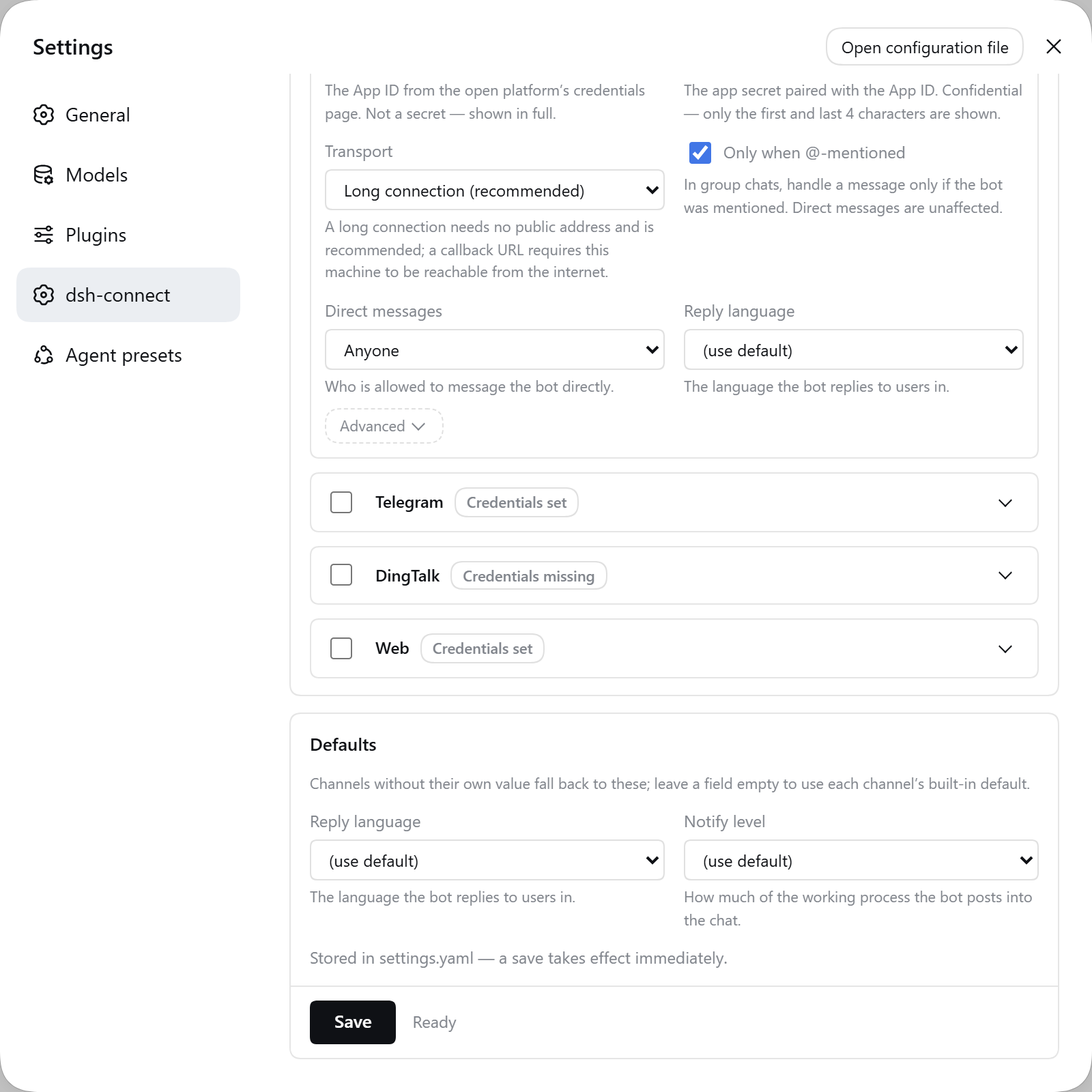
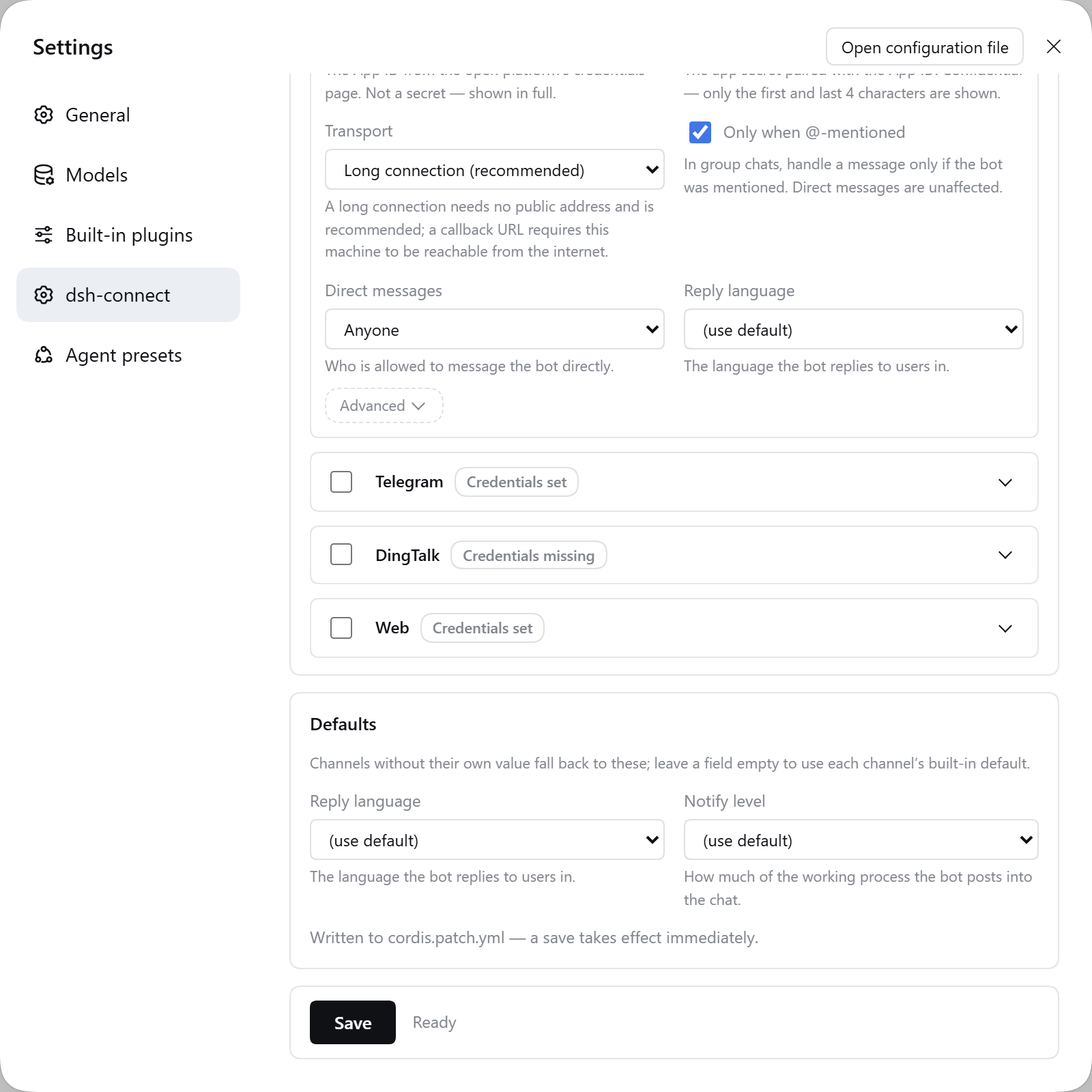
docs(connect): 0.9.3 — changelog, refreshed 0.2.0-rc.2 screenshots, version bump
All six settings-pane screenshots were re-captured against `0.2.0-rc.2`.
The old set was taken on `0.1.5-rc.2` and the host's own chrome had moved
on — the nav entry beside `dsh-connect` now reads 「内置插件」/「Built-in
plugins」 rather than 「插件」/「Plugins」, and the panel header gained an
「打开配置文件」/"Open configuration file" button. A screenshot is
documentation, and one showing a shell that no longer exists understates
the upgrade for anyone on an older build. Captured from the same
clean-room profile as before (plugin linked to this working tree, every
credential a fake placeholder), so what is in frame is this release.

The re-capture is also what found the stale status line fixed in the
previous commit: the shots are the only place both languages' pane text
is read as a user sees it.

Docs: CHANGELOG 0.9.3 section; both package READMEs gain the resume
troubleshooting row's chat notice and the note that Save pins `channels`
to the list as it stood at that moment (the host's `replace()` writes a
complete declared section and nothing on this seam can unpin it);
`docs/all-in-one-and-web-settings.md` and `docs/SHARED_WORKSPACE_SETUP.*`
brought level; two stale currency claims corrected
(`all-in-one` said "408 项" and 0.9.2, `ENHANCEMENTS_SUMMARY.*` said
"the current release is 0.9.2").

`README.i18n.yaml` re-recorded: both sides changed together, hashes
verify against `git hash-object README.md README.zh.md`.

diff --git a/CHANGELOG.md b/CHANGELOG.md
@@ -2,6 +2,44 @@
 
 All notable changes to this project are documented following [Keep a Changelog](https://keepachangelog.com/en/1.1.0/).
 
+## [0.9.3] - 2026-10-02
+
+An audit of what this bridge does when a write fails, and the repair of every place it reported success anyway. The unifying fault is one shape in six places: a durable store refused or dropped a write, the `catch` that should have reported it was either empty or a bare `undefined`, and the user was told everything was fine. A reminder set for tomorrow disappears overnight, a chat stops being resumable after a restart, a rotated secret never reaches the running bot, and the one message the user sees in each case is 「已保存」 or 「已设置」. Each of those is now a reported outcome, and where the operation genuinely did succeed in part — the reminder is live in this process but not on disk — **the report says both**, because a single line covering half the truth is how the other half goes unnoticed. The same principle read from the other end produces the two chat-facing additions: a resume that silently fell back to a fresh session now says so in the conversation, and a task card the adapter could not deliver is logged instead of discarded.
+
+### Added
+
+- **The settings pane can report a problem instead of only a verdict.** `SettingsSnapshot` carries three optional fields — `warnings`, `credentialErrors` and `channelErrors` — and each is spread into the response only when non-empty, so a healthy snapshot is byte-identical to the previous release's. Credential-store read failures arrive as a channel-keyed message rather than as an all-false presence map, and adapters that failed to start arrive with the `start()` error that stopped them. The pane renders all three through one exported helper, `snapshotIssues()` in `client/panel-state.mjs`, as a single list in the save bar — the one part of the pane that is always on screen, and the reason it is not beside the channel it concerns is that a channel card can be folded or scrolled past, which is exactly when 「已保存」 next to nothing else misleads. A channel whose credential state could not be *read* also gets a distinct amber badge: "unknown" is a third state and not a shade of false, and collapsing it into 「未配置凭据」 sends the user to re-enter a secret that was never the problem. Warning codes render through `w.<code>`, so a code shipped without its locale entry prints the code — searchable, and visibly untranslated — rather than `undefined`.
+- **`SETTINGS_WARNING_CODES`,** the list of codes the pane knows, as a real array (`["credentialsStoredNotApplied"]`) rather than a bare union type. The locale test derives its expectations from that array, so the list and the translations cannot drift apart.
+- **A chat notice when the stored session could not be resumed.** `connect: resume of <id> failed, creating fresh session` was logged and nothing else; the log is the one place a chat user never looks. They send a follow-up into a conversation that looks intact and the reply arrives with no memory of it. The catch now records the reason (only when the binding held a non-empty `sessionId` — see the fix below) and, **after** the fresh session actually exists, sends 「⚠ 无法恢复上次的会话，已为你开启一个新会话继续（旧会话仍可在 Web 端查看）」 plus the reason, so a permanent cause (a deleted session store, a moved work directory) is distinguishable from a one-off. The old session is not lost: it is still in the session store and still viewable in the Web GUI, which is why the notice says "continuing in a new one" rather than "your conversation was lost".
+- **`BindingStore` reports a write failure on the transition, in both directions.** A binding file it cannot write means existing chats will not be resumed after a restart and each will start a new session — the same silent-fallback class as above, one restart later. The store now warns once when persistence breaks and once when it starts working again, rather than on every save. The same reporting is threaded through the two other stores that can silently refuse a write: `ReminderStore.add()` returns `{ reminder, persisted }`, and the Feishu onboarding credential save returns a `boolean`.
+
+### Changed
+
+- **The progress watchdog's tick is derived from the configured interval** instead of being fixed at `PROGRESS_WATCHDOG_CHECK_MS` (15 s): half the interval, floored at 250 ms so a pathologically small value cannot become a busy loop, capped so the 5-minute default keeps the same 15 s tick as before. A fixed 15 s tick meant `progressTimeoutMs: 30_000` was honoured anywhere in 30–45 s — up to 1.5× what the user asked for — and no test could observe the feature without sleeping the constant out.
+- **`onCredentialsSaved` is awaited, and `namespace.onChange` may be async.** The credential write ends with the same `reconcile()` a config save triggers (the `0.9.2` fix); awaiting it is what makes the pane's report of that reconcile truthful rather than merely optimistic.
+
+### Fixed
+
+- **An unreadable credential store no longer reports as 「未配置凭据」.** The read loop's `catch {}` was empty, so an `EACCES` or a malformed store produced the same all-false presence map as a genuinely empty one, and sent the user to paste a secret that was already there. The failure is logged and carried to the pane as a per-channel message.
+- **A channel that failed to start says so.** `channelErrors` is populated from the adapter's own `start()` error and cleared on a successful start and on stop, so the message in the pane is the one the adapter raised — the only part that names the credential or option actually at fault.
+- **A reminder that could not be persisted is reported as set *and* as not surviving a restart.** The reminder is live in this process and will fire; a failed write means it will not survive a restart. 「已设置」 alone is how a reminder set for tomorrow quietly disappears overnight, and refusing to set it at all would be the lie in the other direction, so the confirmation line carries a second line naming the consequence.
+- **An onboarding credential save that did not land no longer reports success.** `saveCredentials()` now returns a boolean and the flow has an `onboardingUnsaved` message for the false branch.
+- **A first message in a brand-new chat no longer claims a session was lost.** `maybeSendWelcome` writes the binding with `sessionId: ""` *before* the first `ensureAgent`, so `resume("")` fails on every chat's first message with nothing to resume — an empty id is not a lost conversation, and the new notice is suppressed for it while the log line keeps telling the operator what happened.
+- **A task-end card that could not be delivered is logged, not discarded.** `await …sendCard(…).catch(() => undefined)` made a dropped card and a card with nothing to say indistinguishable. It is neither: that card is the durable record of the turn — the result text and the token/duration summary — and the streaming card it replaces is meanwhile stuck on its last frame, so a silent failure left the user watching a frozen "running" indicator with no reason to think anything was wrong.
+- **The pane no longer says a save lands in `settings.yaml`.** `0.9.2` moved the live store to this plugin's entry in the active profile patch; the status line under the Save button — the one string a user reads to answer "where did my save go, and when does it apply?" — kept naming the document DSH 0.2 no longer reads plugin settings from, so the pane was confidently pointing at the wrong file. It now names `cordis.patch.yml`, and the fallback plane's hint no longer calls the absent namespace "the `settings.yaml` namespace", since the namespace is registered against the host's settings service rather than that file. Found by re-capturing the settings screenshots against `0.2.0-rc.2` — both strings were terse, plausible and wrong, which is why a test that only checked they were *present* (the one that existed) could not have caught either.
+
+### Testing
+
+- The two silent-failure layers are now covered end to end. `test/panel-state.test.mjs` (7 → 12) pins `snapshotIssues`: each report becomes its own kind with a stable key (asserted to carry no digits, i.e. nothing derived from a list index), a clean snapshot yields nothing at all, and the caller's accumulated warnings add to the snapshot's rather than replacing them — including that an explicitly empty list is respected rather than treated as absent, which is the difference between "nothing to report" and "I did not look". `test/client-bundle.test.mjs` (14 → 18) renders it: a channel whose store could not be read shows as unknown rather than missing, a call with nothing to report renders no list at all, and a warning raised by an earlier credential save survives a later one. `test/locale.test.mjs` (11 → 12) iterates `SETTINGS_WARNING_CODES` and asserts every code has a translation in both languages, so a code cannot ship untranslated. `test/feishu.test.mjs` (39 → 43) covers the onboarding write's outcomes: plain success when the file took the credentials, the not-saved message when no store takes them, success when the credential store saves it instead, and the not-saved message when the store throws too.
+- `test/runner.test.mjs` (20 → 33) gained the turn-level cases: the resume-fallback notice — sent once per breakage rather than once per message, and *not* sent for the empty-id first turn — the derived watchdog tick, the heartbeat, and the per-chat override writers on both the update and the create branch. The harness's fake `AgentRegistry` was returning `{ agent, session }` with no `dispose()`, which the real host hangs off every handle, so `AgentRunner.disposeAgent` threw on every session reset path (`/model`, `/reasoning`, `/clear`) and the failure named neither the path nor the cause; it now returns a handle and records its release, and the reset test asserts the release explicitly — an un-released handle is invisible until the host runs out of them.
+- `test/unit.test.mjs` (57 → 63) covers `MenuController.openMenu`'s routing for the first time. `menuItems` builds each submenu; `openMenu` is what actually routes a tap, and until now nothing called it. The taps are scripted rather than derived from the rendered options on purpose: a test that can only press buttons the previous render offered could never press a stale one, which is the case worth covering. Both new load-bearing tests are mutation-checked — removing the stale-tap redraw fails exactly that test, and replacing the back-pop's `stack.slice(0, -1)` with `[]` fails exactly that one — so they are demonstrated to fail on a real regression rather than merely to pass. The existing live-plane assertion gained the guard the string above needed: it now checks that both languages name `cordis.patch.yml` and that neither still names `settings.yaml`, since the fault was a string that was *present* and wrong rather than missing. 408 → 441 tests, all passing.
+
+### Documentation
+
+- **Both package READMEs' resume-failure troubleshooting row now names the chat notice**, since the log line it documented was the only report and a user reading the table had no way to know the chat would also say so. Both also gain the reason the searchability of that row matters.
+- **A note on the channel list being pinned once you press Save.** The host's `replace()` writes a complete declared section and resets a declared field an update omits to its inherited value, so pressing Save pins `channels` to the list as it stood at that moment — **there is no way to unpin it from the pane**, and a channel added by a future release will not be enabled for a user who has saved at least once. Documented rather than fixed: a diff-against-resolved payload would be destructive on this seam, since the resolved section is what the pane is reading, so the honest move is to say what Save does.
+- **The six settings-pane screenshots were re-captured against `0.2.0-rc.2`.** The existing set was taken on `0.1.5-rc.2`, and the host's own chrome had moved on: the nav entry beside `dsh-connect` now reads 「内置插件」/「Built-in plugins」 rather than 「插件」/「Plugins」, and the panel header gained an 「打开配置文件」/「Open configuration file」 button. A screenshot is documentation, and one showing a shell that no longer exists understates the changes for anyone upgrading. Captured from the same clean-room profile as before — the plugin linked to this working tree, every credential in it a fake placeholder (`cli_a1b2c3d4e5f60789` / `fake…1e00` in the shots) — so what is in frame is the code in this release.
+
 ## [0.9.2] - 2026-10-02
 
 The DSH 0.2 line. The published `0.9.0` — and the in-repo `0.9.1`, which was committed but never published — were built against `0.1.5-rc.2`, and DSH refuses to load them on `0.2.0-rc.2` — the compatibility gate read our pinned `^0.1.5-rc.2`, which is `>=0.1.5-rc.2 <0.2.0` and therefore excludes the new host by construction, and told the user to install a compatible version instead. The range is now in step. The same upgrade also moved where per-plugin settings live, which is what most of this release is about: DSH 0.2 no longer reads plugin settings out of `$DSH_HOME/settings.yaml`, and the host's own migration drops the old `dsh-connect:` section with a warning, so without the import below an upgrading user's pane choices would silently revert to defaults the first time they opened the pane.

diff --git a/docs/all-in-one-and-web-settings.md b/docs/all-in-one-and-web-settings.md
@@ -1,8 +1,8 @@
 # 配置简化 + Web 设置 + 多合一重构（对齐 dsh-im）
 
-> **当前状态更新（2026-10-02，0.9.2）**：设置存储随 DSH 0.2 再次换代。面板的权威存储不再是 `$DSH_HOME/settings.yaml` 的 `dsh-connect` 段（那是 0.9.0/0.9.1 的做法；DSH 0.2 已不再从这个文档读取插件设置），而是**当前 profile patch（`cordis.patch.yml`）中本插件的条目**，经 DSH 一方 `settings` 服务（`SettingsForms`）写入：热重载、原子写、文件锁、保留注释；取值顺序为 **schema 默认值 → 插件被组合进来时的配置 → profile patch 条目**。面板可编辑字段在 schema 里声明为 `volatile`，保存因此是就地 reconcile（运行中的适配器直接采用新值）而不是重挂载；写入会投影到已声明字段，未声明的键（凭据、`settingsStatePath`）既写不进去也不会被清掉，而被省略的已声明字段会被重置回继承值，所以每次写入都是完整的已声明段。0.2 之前留在 `settings.yaml` 里的段，会在升级后的第一次启动时被**合并**（不是替换）导入 patch 条目，一次性标记 `.dsh-connect-legacy-imported`（写在 profile 条目旁，锚在 `profileContext.patchPath`）记录结果。面板**写不进**密钥：保存会投影到已声明字段，而密钥键一个都不在其中，所以面板既不会把密钥写进 profile patch，也不会写进任何 JSON 状态文件——它们只进 DSH 凭据库。反过来，**手写**在条目或回退文件里的密钥也不会被面板的保存顺手删掉（不删用户自己的文档），但读取时一律剔除，绝不随快照下发到浏览器；面板只显示凭据库提供的掩码预览（appId 这类标识符本身不脱敏）。面板 UI 沿用 0.9.0 的**渠道 Tab 条 + 可折叠卡片**，低频字段收进二级「高级」折叠，保存/状态固定在底部。当前测试总数 **408 项全过**，DSH 依赖升到 `^0.2.0-rc.2`（peer `dsh-agent` / `dsh-llm` / `dsh-session`）。详见根 `CHANGELOG.md` 的 0.9.2 段。
+> **当前状态更新（2026-10-02，0.9.3）**：设置存储随 DSH 0.2 再次换代。面板的权威存储不再是 `$DSH_HOME/settings.yaml` 的 `dsh-connect` 段（那是 0.9.0/0.9.1 的做法；DSH 0.2 已不再从这个文档读取插件设置），而是**当前 profile patch（`cordis.patch.yml`）中本插件的条目**，经 DSH 一方 `settings` 服务（`SettingsForms`）写入：热重载、原子写、文件锁、保留注释；取值顺序为 **schema 默认值 → 插件被组合进来时的配置 → profile patch 条目**。面板可编辑字段在 schema 里声明为 `volatile`，保存因此是就地 reconcile（运行中的适配器直接采用新值）而不是重挂载；写入会投影到已声明字段，未声明的键（凭据、`settingsStatePath`）既写不进去也不会被清掉，而被省略的已声明字段会被重置回继承值，所以每次写入都是完整的已声明段。0.2 之前留在 `settings.yaml` 里的段，会在升级后的第一次启动时被**合并**（不是替换）导入 patch 条目，一次性标记 `.dsh-connect-legacy-imported`（写在 profile 条目旁，锚在 `profileContext.patchPath`）记录结果。面板**写不进**密钥：保存会投影到已声明字段，而密钥键一个都不在其中，所以面板既不会把密钥写进 profile patch，也不会写进任何 JSON 状态文件——它们只进 DSH 凭据库。反过来，**手写**在条目或回退文件里的密钥也不会被面板的保存顺手删掉（不删用户自己的文档），但读取时一律剔除，绝不随快照下发到浏览器；面板只显示凭据库提供的掩码预览（appId 这类标识符本身不脱敏）。面板 UI 沿用 0.9.0 的**渠道 Tab 条 + 可折叠卡片**，低频字段收进二级「高级」折叠，保存/状态固定在底部。**0.9.3 把「失败」从一个被吞掉的分支变成一份报告**：`SettingsSnapshot` 增加 `warnings` / `credentialErrors` / `channelErrors`（非空才下发），面板经 `snapshotIssues()` 把它们渲染成保存条上方的一份清单，凭据库读不了的渠道显示琥珀色「凭据状态未知」徽标而不是「未配置凭据」；绑定文件、提醒文件、开通流程的凭据写入这三处写失败不再被 `catch` 吞掉，聊天里也会在会话恢复失败时收到通知，而不是只在日志里写一行。同一批里还改掉了一处纯属说错的文案：保存条下方的状态行原本写「配置存放在 settings.yaml，保存后立即生效」，而 0.9.2 起权威存储已经是 profile patch，现在如实写作 `cordis.patch.yml`。当前测试总数 **441 项全过**，DSH 依赖升到 `^0.2.0-rc.2`（peer `dsh-agent` / `dsh-llm` / `dsh-session`）。详见根 `CHANGELOG.md` 的 0.9.2 与 0.9.3 段。
 
-### 设置页现状（0.9.0 截图）
+### 设置页现状（0.9.3 截图，DSH `0.2.0-rc.2`）
 
 | 概览（渠道 Tab 条 + 卡片） | 高级折叠 |
 |---|---|
@@ -11,6 +11,7 @@
 <img src="../packages/connect/docs/images/settings-defaults-zh.png" alt="默认值展示" width="420">
 
 > 英文文档/README 使用同目录下的 `-en` 变体；路径约定见 `docs/PUBLISHING.md` 第 2.4 节。
+> 截图取自干净环境（插件 `link:` 到当前工作树，profile 里所有凭据都是假占位符），拍摄于 `0.2.0-rc.2`：设置导航里的邻居条目此时已叫「内置插件」，面板头部也多了一个「打开配置文件」按钮，与 0.1.5 时期的旧图不同。
 
 ---
 
@@ -29,11 +30,11 @@
 - 一份配置（`channels` + `channelDefaults` + N 个渠道块）启用任意渠道组合；渠道失败隔离、渠道级配置透传。
 - Web 可视化设置：`/dsh-connect` RPC（`settings.get/save/status` + `credentials.save`）+ 设置持久化（0.9.2 起为 profile patch 中本插件的条目；0.9.0/0.9.1 为 `$DSH_HOME/settings.yaml` 的 `dsh-connect` 段；更早是 JSON 状态文件）+ DSH 凭据库读写，配置与凭据**读写闭环**（round-trip 已验证）。
 - 凭据从配置挪到凭据库：面板写密钥 → 激活时 `injectSecrets` 注入各渠道适配器（非侵入，渠道适配器零改动）。
-- 一键发布：`files` 含 client/examples、`prepack` 自动重建、入口解析 OK；当前 `packages/connect` 单包 **408 项测试全过**（详见 `CHANGELOG.md` 0.9.2）。
+- 一键发布：`files` 含 client/examples、`prepack` 自动重建、入口解析 OK；当前 `packages/connect` 单包 **441 项测试全过**（详见 `CHANGELOG.md` 0.9.3）。
 
 **当时还差什么（两项均已完成，保留存档）：**
 1. ~~`dsh web` 内构建并渲染前端 `settings-client` 组件~~——已完成：`client/client.js` 由 `scripts/build-client.mjs` 构建，`test/client-bundle.test.mjs` 直接加载构建产物在 Node 里渲染并断言。
-2. ~~推送 v0.7.2~~——已解决：v0.7.2 及其后的 0.8.0 / 0.8.1 均已发布，当前版本为 0.9.2（见根 `CHANGELOG.md`）。
+2. ~~推送 v0.7.2~~——已解决：v0.7.2 及其后的 0.8.0 / 0.8.1 均已发布，当前版本为 0.9.3（见根 `CHANGELOG.md`）。
 
 ## 1. 重构前的现状：配置与安装复杂度
 
@@ -126,7 +127,7 @@
 
 ## 进展（实现中）
 
-> **历史存档**：以下是 `packages/connect-all/`（聚合包，方案 A）时期的按时间顺序记录，**该包已随 0.8.0 的单包化被删除**。因此本节所有 `packages/connect-all/...` 路径、`dsh-connect-all` 包名与安装命令都已不存在；下文出现的测试计数（**37 / 40 / 44 / 50 / 52 / 56 / 57**）只统计当时那套 connect-all 测试，既不是当前套件、也不可与它相加——当前是 `packages/connect` 单包 **408 项全过**（DSH `0.2.0-rc.2`，见 `CHANGELOG.md` 0.9.2）。文中「前端待联调」一类表述同样只反映当时状态。
+> **历史存档**：以下是 `packages/connect-all/`（聚合包，方案 A）时期的按时间顺序记录，**该包已随 0.8.0 的单包化被删除**。因此本节所有 `packages/connect-all/...` 路径、`dsh-connect-all` 包名与安装命令都已不存在；下文出现的测试计数（**37 / 40 / 44 / 50 / 52 / 56 / 57**）只统计当时那套 connect-all 测试，既不是当前套件、也不可与它相加——当前是 `packages/connect` 单包 **441 项全过**（DSH `0.2.0-rc.2`，见 `CHANGELOG.md` 0.9.3）。文中「前端待联调」一类表述同样只反映当时状态。
 
 ### 已完成：`dsh-connect-all` 聚合包（方案 A 骨架，已 build + 单测通过）
 - 新增 `packages/connect-all/` 单插件：一个 `dsh plugin add dsh-connect dsh-connect-all` 装齐核心 + 4 渠道。

diff --git a/packages/connect/README.md b/packages/connect/README.md
@@ -41,7 +41,7 @@ version is the signal that the bridge needs another migration.
 
 DSH refuses to load a plugin whose range does not cover it, so a stale range is
 at least loud: installing `0.9.0` on `0.2.0-rc.2` is rejected with *"may cause
-crashes or data loss"* before anything runs. `0.9.2` is the version that covers
+crashes or data loss"* before anything runs. `0.9.3` is the version that covers
 `0.2.0-rc.2`; see [Upgrading from 0.9.0](#upgrading-from-090).
 
 The plugin runs on the DSH **Host plane** (process-level singleton services), not inside an agent preset.
@@ -290,6 +290,17 @@ resets a declared field that an update *omits* to its inherited value, so a save
 always writes the complete declared section. Undeclared keys you hand-wrote in
 that entry are preserved across a pane save, untouched.
 
+**Consequence worth knowing: pressing Save pins the channel list.** `channels` is
+a declared field, so the section a save writes names every channel that was in
+the form at that moment — and there is no way to unpin it from the pane, because
+an omitted field does not clear but *inherits*. If you have saved at least once,
+a channel added by a newer release will not be enabled for you until you tick it
+and save again (or delete the `channels` key from
+`~/.dsh/profiles/<profile>/cordis.patch.yml` by hand). The pane cannot tell the
+difference between "the user chose this list" and "the user has not looked since
+the list changed", and it will not guess on your behalf: a save that wrote only
+what you edited would reset every other field to its inherited value.
+
 **The pane never writes credentials.** A profile patch is a plain document users
 are invited to paste into bug reports, so a secret you type into the pane goes to
 the DSH credential store (`ctx.credentials`) instead — which is also where
@@ -329,6 +340,26 @@ come from `client/locale.mjs`, which ships `zh` and `en`. A test asserts both
 languages cover exactly the same key set — the host resolves a missing key by
 silently falling back to the other language, so an untranslated string shows up
 as mixed-language text rather than as an error.
+
+### When a save has something to report
+
+`已保存` / `Saved` means the write landed, and nothing more. When there is
+something else to say, the save bar grows a list above the button — it is the
+only part of the pane that is always on screen, and a channel card can be folded
+or scrolled past, which is exactly when a bare "Saved" next to nothing else
+misleads.
+
+| Line | What it means |
+|---|---|
+| *<channel>* · `Credential state unknown` | The credential store could not be **read** for that channel — usually a permission problem or a malformed store. This is not `not configured`: a secret may well be stored. Do not retype it until you have checked the store, which is why the badge on that channel's card turns amber rather than red. |
+| *<channel>* · `Channel failed to start:` plus the adapter's own message | The adapter's `start()` threw. The message is passed through verbatim, because it is the only part that names the credential or option actually at fault. |
+| `The credential was saved, but the running channels did not reload it — restart dsh to be sure.` | The save partially applied: the secret is in the credential store, but the reconcile that hands it to the running adapters failed, so the bot keeps using the old one until a restart. |
+
+Warnings accumulate across the several calls one Save makes (config first, then
+each channel's credentials); the error lines are re-derived from the world on
+every call. A warning is about the call that raised it, so it would otherwise be
+erased by the next channel's save — and the one that mattered is the one you
+would lose.
 
 ### Credential groups
 
@@ -415,10 +446,13 @@ Logs come from the DSH host logger (run `dsh web` in a terminal); plugin message
 
 | Symptom | Likely cause / fix |
 |---|---|
-| Installing `dsh-connect@0.9.0` on DSH `0.2.0-rc.2` is refused: *"`dsh-connect@0.9.0` 与 DSH `0.2.0-rc.2` 不兼容 … 运行它可能导致崩溃或数据丢失"* | Not a bug and not a warning to click past: DSH's compatibility gate rejects any plugin whose declared peer range does not cover the running host, and `0.9.0` predates the `0.2.0` line. Install **`0.9.2`** (or newer), whose peers require `^0.2.0-rc.2`. |
+| Installing `dsh-connect@0.9.0` on DSH `0.2.0-rc.2` is refused: *"`dsh-connect@0.9.0` 与 DSH `0.2.0-rc.2` 不兼容 … 运行它可能导致崩溃或数据丢失"* | Not a bug and not a warning to click past: DSH's compatibility gate rejects any plugin whose declared peer range does not cover the running host, and `0.9.0` predates the `0.2.0` line. Install **`0.9.3`** (or newer), whose peers require `^0.2.0-rc.2`. |
 | In the Desktop app you cannot find where to install a plugin — the entry seems to have gone after a restart | The install surface is the **Plugins panel in the sidebar** (first in the panel list), not Settings; Settings only lists plugins, read-only. See [Installing in the Desktop app](#installing-in-the-desktop-app). If the panel opens but says *this deployment runs without a manageable profile*, the host did not expose its plugin manager, so the page is inert — restart the app. And **Settings → dsh-connect** can only exist once the plugin is installed and loaded, so after a refused install there is legitimately nothing to find. |
 | `connect-feishu: adapter init failed` / `start failed` | Bad credentials, app not published, or network blocked. Check `appId`/`appSecret`, re-run onboarding, verify the bot is online in the Feishu console. |
-| `connect: resume of <id> failed, creating fresh session` | The persisted session could not be resumed (missing workdir, persistence issue). Check `workDir` and `~/.dsh/sessions`. |
+| `connect: resume of <id> failed, creating fresh session` | The persisted session could not be resumed (missing workdir, persistence issue). Check `workDir` and `~/.dsh/sessions`. **The chat is told too**, since `0.9.3`: you get 「无法恢复上次的会话，已为你开启一个新会话继续」 with the reason, because the log is the one place a chat user never looks and a reply that arrives with no memory of the conversation looks like the bot forgetting rather than a session that moved. The old session is not lost — it is still in the session store and still openable in the Web GUI. |
+| `connect: binding store writes to <file> are working again` / `… cannot persist bindings …` | The binding file could not be written, so **existing chats will not be resumed after a restart** and each will start a new session. Reported once when the write breaks and once when it recovers — on its own it is a disk or permission problem, but if you see it *and* the resume notice above, the two are the same cause. |
+| `connect: summary card could not be delivered …` / `connect: stats card could not be delivered …` | The turn finished but its result card did not reach the chat, so the streaming card stays on its last frame. Usually a bot-API or permission problem on the channel side; the answer itself is in the session and visible in the Web GUI. |
+| A reminder was accepted but never fired | Fixed in **0.9.3**: the store's write failure was swallowed, so 「已设置」 could be sent for a reminder that would not survive a restart. The confirmation now carries a second line saying so. Upgrade. |
 | The bot answers every message with a raw `agent-presets: preset "…" not found` line, and nothing reaches the agent | A stale `agent-presets.default` in `$DSH_HOME/settings.yaml` names an id no installed build ships. Fixed in **0.9.0**, which retries `standard` and logs the decision rather than failing the turn; on an older build, set the key to a shipped id (`standard`). |
 | Session-locked notices | Another client (Feishu or Web) holds the write lock. Use `/unlock` or wait for the lock timeout. |
 | Model switch in the Web GUI appears ignored | Fixed in **0.9.0**: the plugin no longer pins a static default model over the Web GUI's session selection. Upgrade, then restart `dsh web`. |

diff --git a/docs/ENHANCEMENTS_SUMMARY.md b/docs/ENHANCEMENTS_SUMMARY.md
@@ -4,7 +4,7 @@ English | [中文](ENHANCEMENTS_SUMMARY.zh.md)
 
 > **Historical note**: this documents the **v0.6.2** round of fixes. Since then the repo consolidated into a **single `dsh-connect` package** — the per-package references below (`dsh-connect-feishu`, `dsh-connect-telegram`, `dsh-connect-dingtalk`, `dsh-connect-web`) and the split `packages/connect-*/test/` directories no longer exist; those channels are now sub-keys of the one `dsh-connect` plugin (under `feishu:` / `telegram:` / `dingtalk:` / `web:`).
 >
-> Two claims below are **superseded** and must not be read as current behaviour: the `feishu-credentials.json` file (mode `0600`) is no longer where onboarding credentials live — the **DSH credential store** is the source of truth, and that JSON file survives only as a best-effort legacy mirror — and a private JSON settings file is no longer the Web pane's store. The pane's store has moved twice since: 0.9.0/0.9.1 wrote the `dsh-connect` section of `$DSH_HOME/settings.yaml`, and **0.9.2** writes **this plugin's entry in the active profile patch** (`cordis.patch.yml`) through DSH's first-party `settings` service, with secrets still only in the credential store — and it imports the old `settings.yaml` section once on upgrade. The current release is **0.9.2** — see the root `CHANGELOG.md`. Everything else below remains an accurate record of the 0.6.2 round.
+> Two claims below are **superseded** and must not be read as current behaviour: the `feishu-credentials.json` file (mode `0600`) is no longer where onboarding credentials live — the **DSH credential store** is the source of truth, and that JSON file survives only as a best-effort legacy mirror — and a private JSON settings file is no longer the Web pane's store. The pane's store has moved twice since: 0.9.0/0.9.1 wrote the `dsh-connect` section of `$DSH_HOME/settings.yaml`, and **0.9.2** writes **this plugin's entry in the active profile patch** (`cordis.patch.yml`) through DSH's first-party `settings` service, with secrets still only in the credential store — and it imports the old `settings.yaml` section once on upgrade. The current release is **0.9.3** — see the root `CHANGELOG.md`. Everything else below remains an accurate record of the 0.6.2 round.
 
 ## 📋 Overview
 

diff --git a/docs/ENHANCEMENTS_SUMMARY.zh.md b/docs/ENHANCEMENTS_SUMMARY.zh.md
@@ -4,7 +4,7 @@ English | [中文](ENHANCEMENTS_SUMMARY.zh.md)
 
 > **历史说明**：本文档记录 **v0.6.2** 这一轮的修复。此后本仓库已合并为**唯一的 `dsh-connect` 包**——下文提到的各分包（`dsh-connect-feishu`、`dsh-connect-telegram`、`dsh-connect-dingtalk`、`dsh-connect-web`）与 `packages/connect-*/test/` 拆分目录已不存在；这些通道现在是 `dsh-connect` 单个插件的子键（`feishu:` / `telegram:` / `dingtalk:` / `web:`）。
 >
-> 下文中另有两点已被**取代**，不可当作当前行为：`feishu-credentials.json`（权限 `0600`）不再是开通流程保存凭据的地方——**DSH 凭据库**才是唯一事实来源，该 JSON 文件仅作为尽力而为的旧版镜像保留；私有 JSON 状态文件也不再是 Web 面板的存储。此后面板存储又换过两代：0.9.0/0.9.1 写的是 `$DSH_HOME/settings.yaml` 的 `dsh-connect` 段，**0.9.2** 改写入**当前 profile patch（`cordis.patch.yml`）中本插件的条目**，经 DSH 第一方 `settings` 服务，密钥仍只进凭据库——并且会在升级时把旧 `settings.yaml` 段一次性导入。当前版本为 **0.9.2**——见根 `CHANGELOG.md`。下文其余内容仍是 0.6.2 那一轮的准确记录。
+> 下文中另有两点已被**取代**，不可当作当前行为：`feishu-credentials.json`（权限 `0600`）不再是开通流程保存凭据的地方——**DSH 凭据库**才是唯一事实来源，该 JSON 文件仅作为尽力而为的旧版镜像保留；私有 JSON 状态文件也不再是 Web 面板的存储。此后面板存储又换过两代：0.9.0/0.9.1 写的是 `$DSH_HOME/settings.yaml` 的 `dsh-connect` 段，**0.9.2** 改写入**当前 profile patch（`cordis.patch.yml`）中本插件的条目**，经 DSH 第一方 `settings` 服务，密钥仍只进凭据库——并且会在升级时把旧 `settings.yaml` 段一次性导入。当前版本为 **0.9.3**——见根 `CHANGELOG.md`。下文其余内容仍是 0.6.2 那一轮的准确记录。
 
 ## 📋 概述
 

diff --git a/docs/ROADMAP.zh.md b/docs/ROADMAP.zh.md
@@ -1,11 +1,11 @@
 # dsh-connect 下个版本迭代计划（Roadmap）
 
-> 状态：基于 2026-08-24 的 v0.6.7 代码基线分析后制定；已按计划推进。（**当前代码基线已是 `dsh-connect` 0.9.2**，仓库结构见下方说明。）
+> 状态：基于 2026-08-24 的 v0.6.7 代码基线分析后制定；已按计划推进。（**当前代码基线已是 `dsh-connect` 0.9.3**，仓库结构见下方说明。）
 > 进度：
 > - **阶段 A（0.6.8 可靠性批次）已完成**——A1 锁队列修复、A2 出站重试、A3 入站去重、A4 单测、A5 CI、A6 `/export pdf` 面移除均已落地并全测试通过（2026-08-24）。
 > - **阶段 B（0.7.0 功能批次）已完成**——B1 钉钉双向 stream 模式、B2 定时提醒、B3 文件回传、B4 群聊线程隔离、B5 管理员广播全部落地；5 包构建/typecheck 通过，95 个单测 + smoke 全绿（2026-08-25）。
 >
-> **计数说明**：上述「5 包」「95 个单测」只描述当时的拆分多包结构。0.8.0 起仓库已收敛为**唯一的 `dsh-connect` 包**（`packages/connect`，见 `CHANGELOG.md` 与 `docs/all-in-one-and-web-settings.md`），当前为单包 **408 项测试全过**（DSH `0.2.0-rc.2`）。
+> **计数说明**：上述「5 包」「95 个单测」只描述当时的拆分多包结构。0.8.0 起仓库已收敛为**唯一的 `dsh-connect` 包**（`packages/connect`，见 `CHANGELOG.md` 与 `docs/all-in-one-and-web-settings.md`），当前为单包 **441 项测试全过**（DSH `0.2.0-rc.2`）。
 > 版本纪律：按 `.cursorrules`，patch（0.6.x）可自动递增；minor（0.7.x）/major（0.8.x）需显式用户批准。
 > 每条目的"依据"均来自当前代码事实（文件行号 / 测试结果），非猜测。
 

diff --git a/docs/SHARED_WORKSPACE_SETUP.md b/docs/SHARED_WORKSPACE_SETUP.md
@@ -293,4 +293,4 @@ Feishu and Web **both read this file**, so they see exactly the same history.
 ---
 
 **Updated**: 2026-10-02  
-**Version**: v0.9.2
+**Version**: v0.9.3

diff --git a/docs/SHARED_WORKSPACE_SETUP.zh.md b/docs/SHARED_WORKSPACE_SETUP.zh.md
@@ -293,4 +293,4 @@ D:\ACOINFO\code\dsh_feishu\
 ---
 
 **更新日期**：2026-10-02  
-**版本**：v0.9.2
+**版本**：v0.9.3
